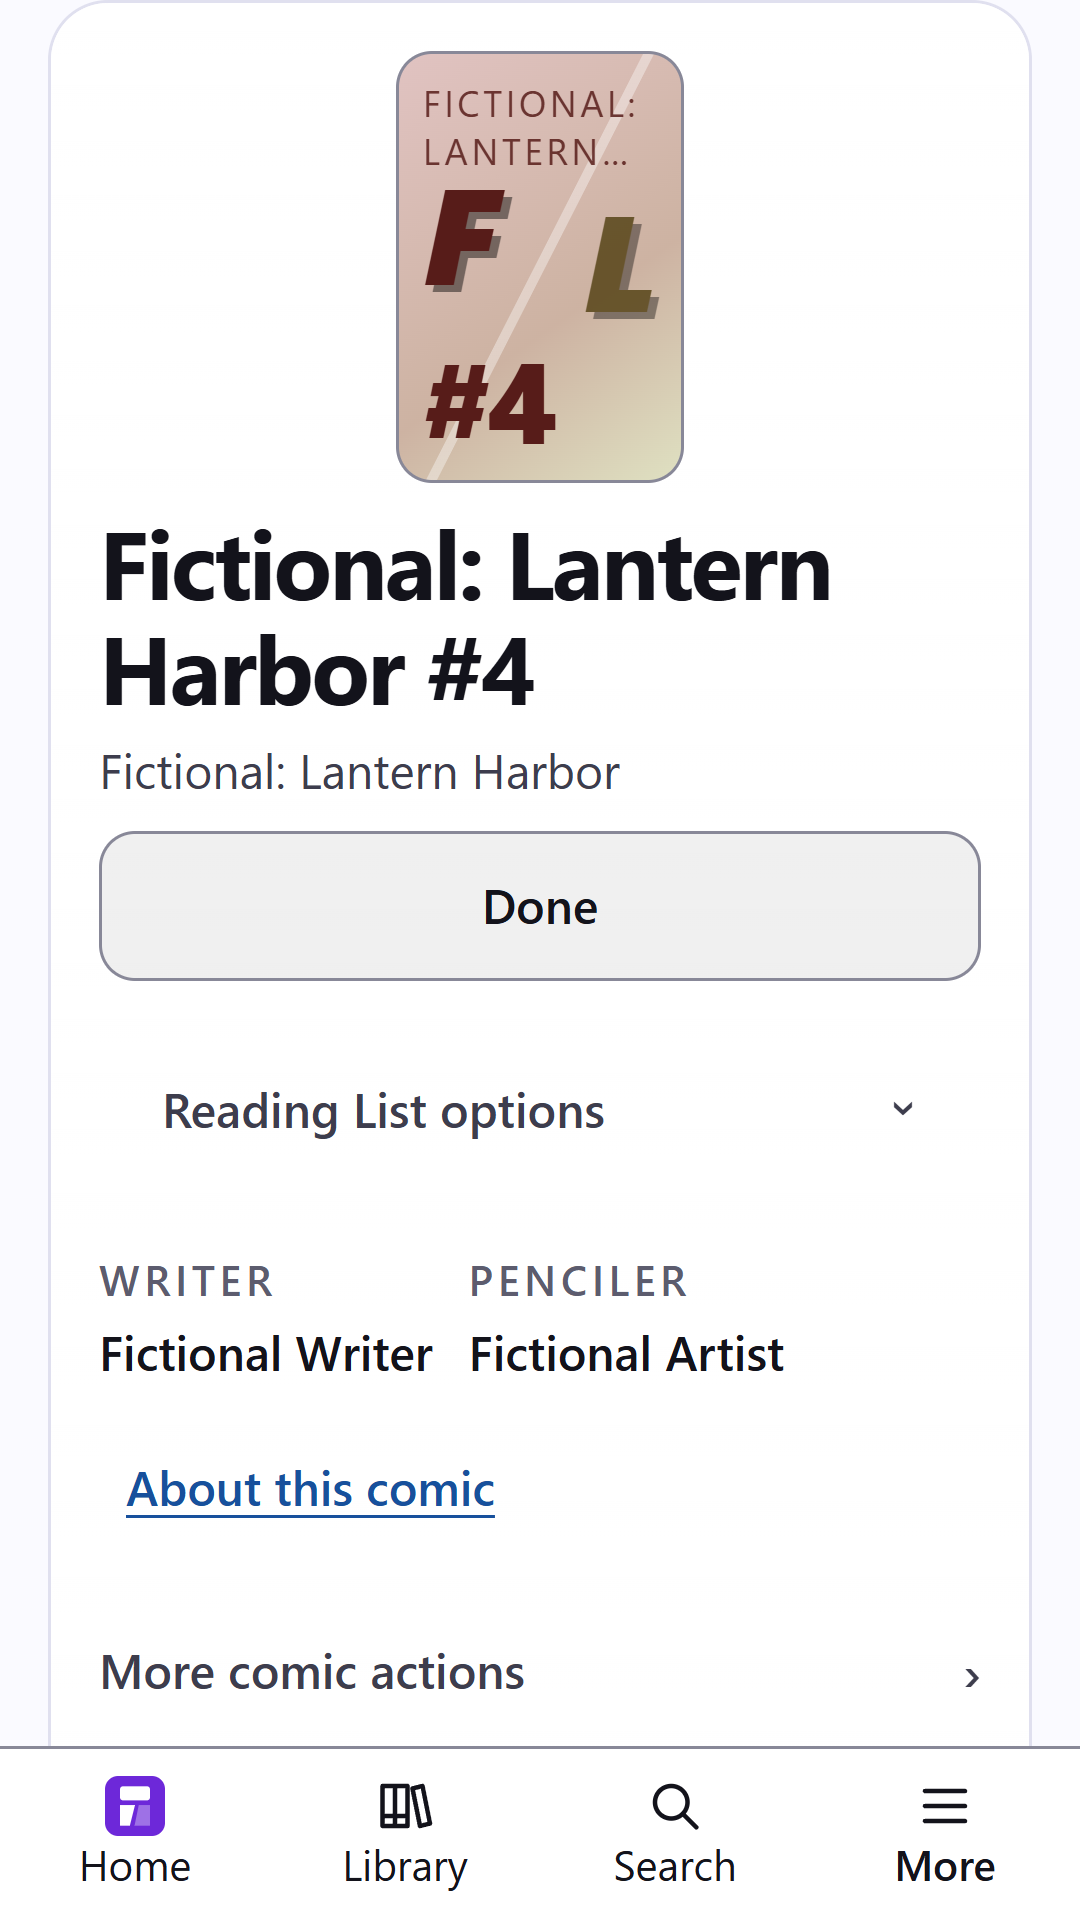
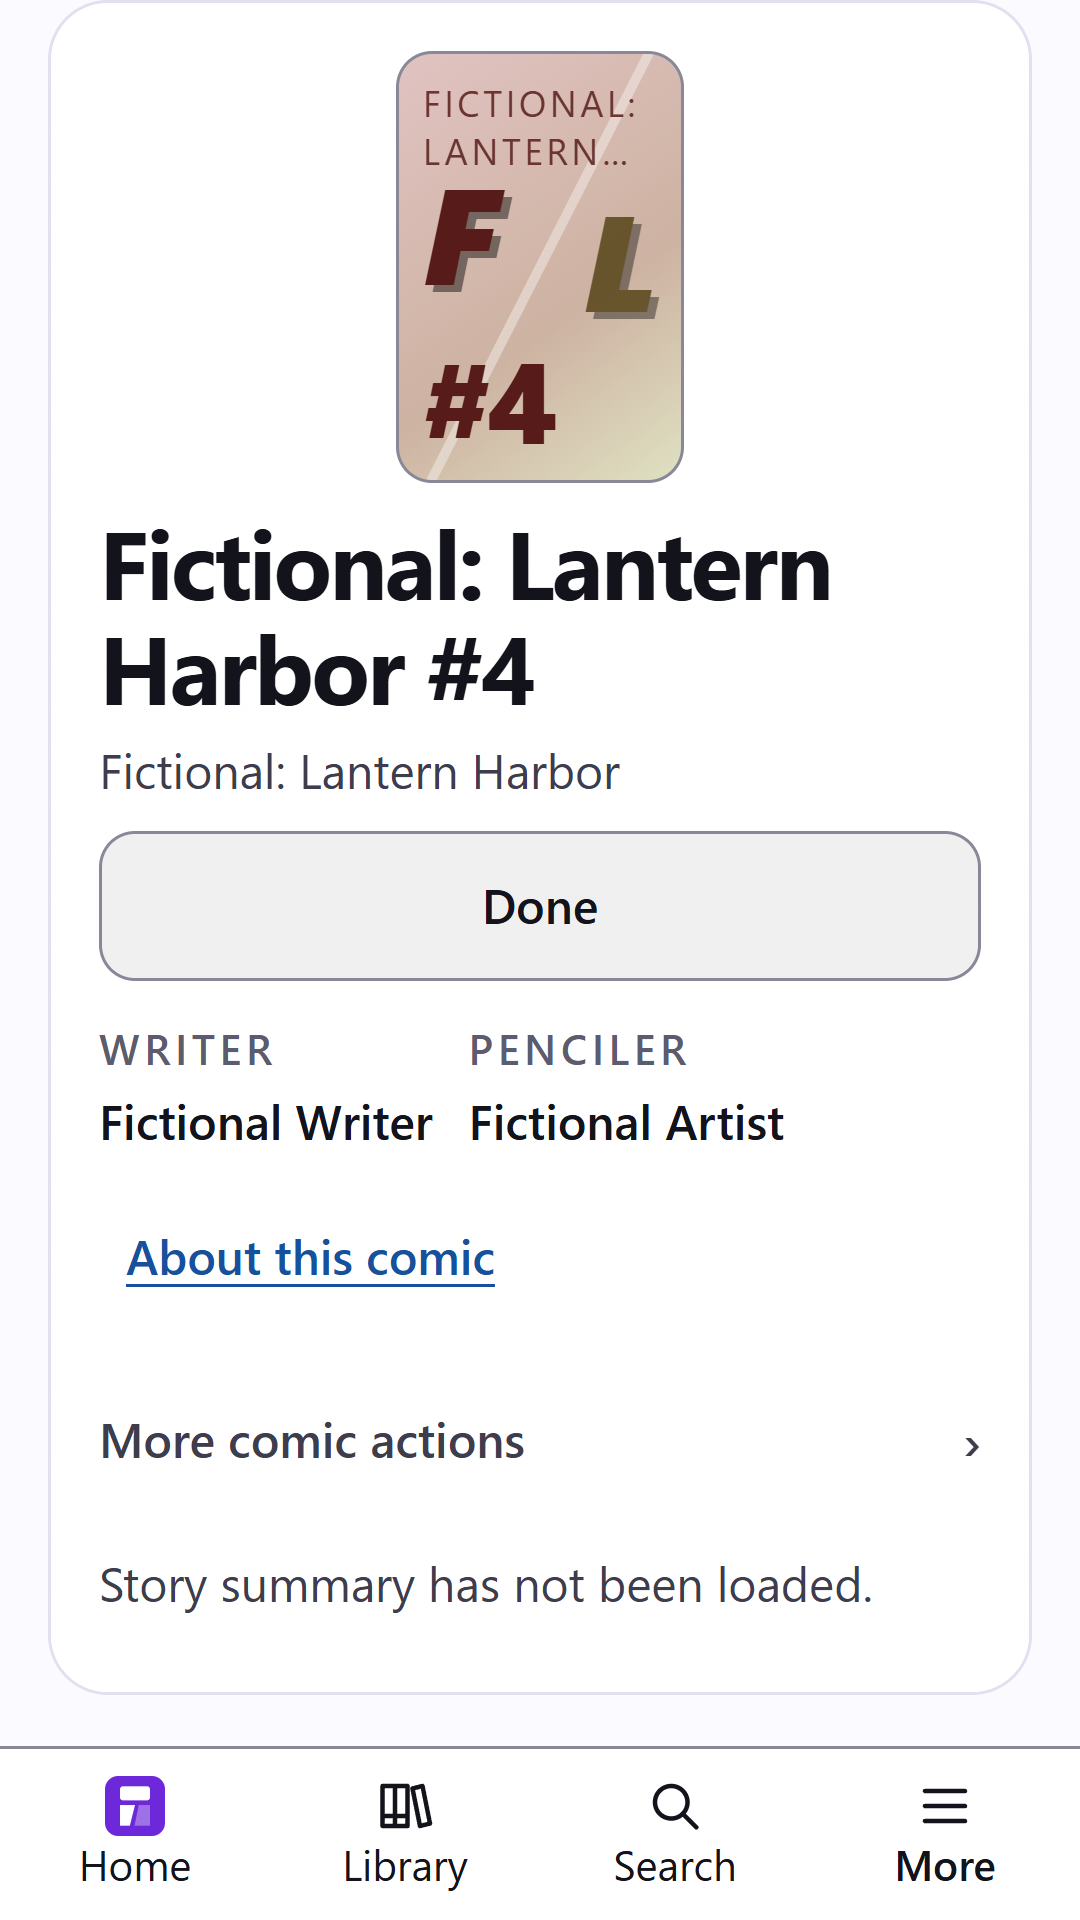
Retake the project home's reading pictures after #1243
The reading card now keeps its comic actions together, moves Reading
List options below the card and no longer offers Review earlier comics.
Both reading pictures are retaken from this main-based branch, and the
Android alt text now names only the card contents visible in the frame.

Changed region(s): [[0.0917, 0.625, 0.7944, 0.9062], [0.0917, 0.5312, 0.7333, 0.5938]]

diff --git a/pages/index.html b/pages/index.html
@@ -125,7 +125,7 @@
                 width="1080"
                 height="1920"
                 loading="lazy"
-                alt="Android reading view with a fictional next issue, Lantern Harbor #4, a Done button, Reading List options, and fictional writer and penciler credits, above the bottom navigation"
+                alt="Android reading view with a fictional next issue, Lantern Harbor #4, a Done button, and fictional writer and penciler credits, above the bottom navigation"
               />
               <figcaption>
                 <strong>Your next comic.</strong>
